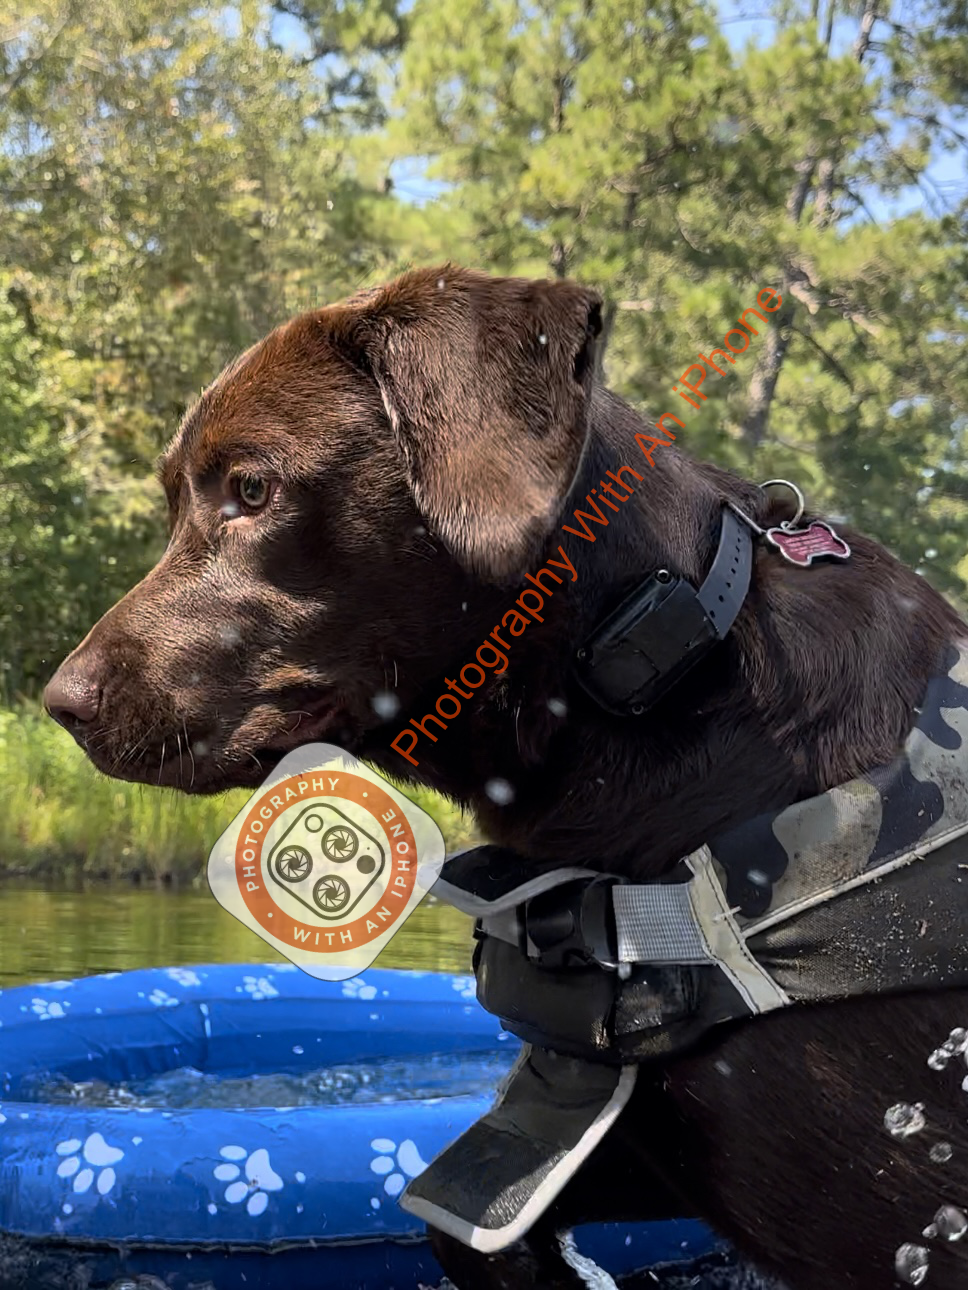
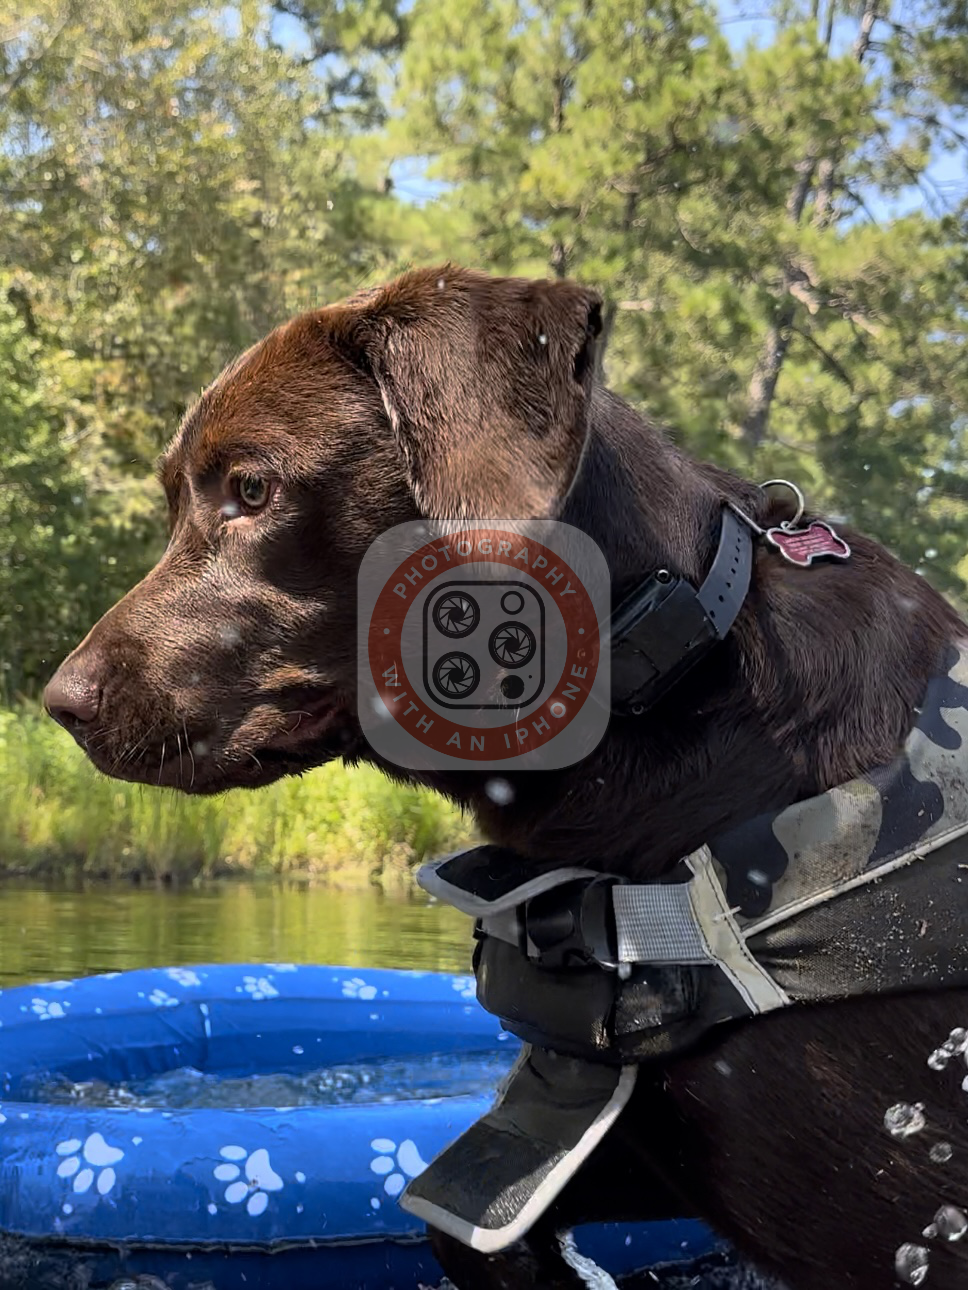
Update ALL images
Updated all images with new waterlogos except for 'Valdese Lakeside Park' page

Changed region(s): [[0.2169, 0.2791, 0.7438, 0.7752], [0.7748, 0.2171, 0.8058, 0.2481], [0.7438, 0.2481, 0.7748, 0.2791]]

diff --git a/people.html b/people.html
@@ -1,0 +1,137 @@
+<!doctype html>
+<html lang="en">
+	<head>
+		<meta charset="UTF-8">
+		<meta name="viewport" content="width=device-width, user-scalable=no, initial-scale=1.0, maximum-scale=1.0, minimum-scale=1.0">
+		<meta http-equiv="X-UA-Compatible" content="ie=edge">
+		<link rel="shortcut icon" type="image/png" href="assets/images/iphone-logo(2).png"/>
+		<title>Random People | Photography With An iPhone</title>
+		<meta name="description" content="Photography With An iPhone">
+		<meta name="keywords" content="photography, iphone, animals, nature, plants, structures, photography of nature, photography of animals, photography of plants, photography of structures, western north carolina, foothills-nc">
+		<link rel="stylesheet" href="css/styles.css">
+		<link rel="stylesheet" href="css/default.css">
+		<link rel="stylesheet" href="css/responsive.css">
+		<link rel="preconnect" href="https://fonts.googleapis.com">
+		<link rel="preconnect" href="https://fonts.gstatic.com" crossorigin>
+		<link href="https://fonts.googleapis.com/css2?family=Anton&family=Black+Ops+One&display=swap" rel="stylesheet">
+	</head>
+	<body>
+		<div class="container">
+			<nav>
+				<ul class="navbar-nav">
+					<li class="nav-link contact">
+						<a href="gallery.html">Gallery</a>
+					</li>
+					<li class="nav-link">
+						<a href="index.html"><img src="assets/images/iphone-logo.webp"></a>
+					</li>
+					<li class="nav-link contact">
+						<a href="contact.html">Contact</a>
+					</li>
+				</ul>
+			</nav>
+
+			<header>
+				<img src="assets/images/IMG_8947.jpg" class="desktop">
+				<img src="assets/images/IMG_8947(3).JPG" class="mobile">
+			</header>
+			<main class="welcome">
+				<ul class="breadcrumb">
+					<li><a href="index.html" class="not-active">...</a></li>
+					<li><a href="gallery.html" class="not-active">Gallery</a></li>
+					<li><a href="people.html" class="active">People</a></li>
+				</ul>
+				<div class="welcome">
+					<h1>People</h1>
+				</div>
+
+				<div class="gallery">
+					<div class="before-after">
+						<div class="random-person-card">
+							<section class="before">
+								<div class="before-wrapper">
+									<img src="assets/images/people/IMG_1961.png" class="photo" alt="a random person">
+								</div>
+<!--								<h3>Random Person</h3>-->
+							</section>
+						</div>
+
+						<div class="random-person-card">
+							<section class="before">
+								<div class="before-wrapper">
+									<img src="assets/images/people/IMG_2864.png" class="photo" alt="a random person">
+								</div>
+								<!--								<h3>Random Person</h3>-->
+							</section>
+						</div>
+					</div>
+				</div>
+			</main>
+
+			<footer class="bg-footer">
+				<section class="footer-top">
+					<div class="footer-col">
+						<div class="contact-info">
+							<ul>
+								<!--								<li><img src="./assets/images/map-pin.svg" alt="location" class="icons">630 W 21st St Newton, NC <br>-->
+								<!--									<span class="inside">(Inside Reaves Chiropractic)</span></li>-->
+<!--								<li><img src="./assets/images/mobile.svg" alt="mobile" class="icons phone email"><a-->
+<!--									href="tel:(+1) 828-455-3152"	class="tel">(+1) 828-781-4674</a>-->
+<!--&lt;!&ndash;									<br><span class="inside">(Call/text)</span>&ndash;&gt;-->
+<!--								</li>-->
+								<li><img src="./assets/images/mail.svg" alt="mail" class="icons"><a
+									href="mailto:theiphonephotography@icloud.com" class="email">theiphonephotography@icloud.com</a></li>
+							</ul>
+						</div>
+					</div>
+				</section>
+
+				<section class="footer-bottom">
+					<div class="footer-bottom-wrapper">
+						<div class="copyright">
+							<p>
+								<a href="https://developerofcode.com" target="_blank" class="developer"><span>Built by</span><img
+									src="./assets/images/DOC_logo_3_logo_only_transparent-BG.gif"
+									alt="Developer Of Code, LLC's company logo"><span class="dev">Developer Of Code, LLC</span></a></p>
+
+						</div>
+						<!--						<div class="footer-bottom-links">-->
+						<!--							<ul>-->
+						<!--								<li><a href="index.html">Home</a></li>-->
+						<!--								<li><a href="products.html">Products</a></li>-->
+						<!--								<li><a href="contact.html">Contact</a></li>-->
+						<!--								<li><a href="#">FAQ</a></li>-->
+						<!--							</ul>-->
+						<!--						</div>-->
+					</div>
+				</section>
+			</footer>
+		</div>
+
+		<script>
+			function currentDiv(n) {
+				showDivs(slideIndex = n);
+			}
+
+			function showDivs(n) {
+				var i;
+				var x = document.getElementsByClassName("mySlides");
+				var dots = document.getElementsByClassName("demo");
+				if (n > x.length) {slideIndex = 1}
+				if (n < 1) {slideIndex = x.length}
+				for (i = 0; i < x.length; i++) {
+					x[i].style.display = "none";
+				}
+				for (i = 0; i < dots.length; i++) {
+					dots[i].className = dots[i].className.replace(" w3-opacity-off", "");
+				}
+				x[slideIndex-1].style.display = "block";
+				dots[slideIndex-1].className += " w3-opacity-off";
+			}
+
+			document.addEventListener('contextmenu', event => {
+				event.preventDefault();
+			});
+		</script>
+	</body>
+</html>

diff --git a/gallery.html b/gallery.html
@@ -63,7 +63,7 @@
 								<section class="before">
 									<div class="before-wrapper">
 										<a
-											href="moon-and-sunset.html"><img src="assets/images/moon-and-sunset/IMG_2030.jpeg" class="photo" alt="moon/sunset link"></a>
+											href="moon-and-sunset.html"><img src="assets/images/moon-and-sunset/IMG_2030.png" class="photo" alt="moon/sunset link"></a>
 									</div>
 									<h3>Moon/Sunset</h3>
 								</section>
@@ -85,8 +85,18 @@
 							<div class="card">
 								<section class="before">
 									<div class="before-wrapper">
-										<a
-											href="random-objects.html"><img src="assets/images/random-objects/IMG_2085.jpeg" class="photo" alt="random objects link"></a>
+										<a href="people.html"><img src="assets/images/people/IMG_1729.png" class="photo" alt="random people link"></a>
+									</div>
+									<h3 class="random">People</h3>
+								</section>
+							</div>
+						</div>
+
+						<div class="card-container">
+							<div class="card">
+								<section class="before">
+									<div class="before-wrapper">
+										<a href="random-objects.html"><img src="assets/images/random-objects/IMG_2085.png" class="photo" alt="random objects link"></a>
 									</div>
 									<h3 class="random">Random Objects</h3>
 								</section>
@@ -97,19 +107,7 @@
 							<div class="card">
 								<section class="before">
 									<div class="before-wrapper">
-										<a
-											href="random-people.html"><img src="assets/images/random-people/IMG_1729.jpg" class="photo" alt="random people link"></a>
-									</div>
-									<h3 class="random">Random People</h3>
-								</section>
-							</div>
-						</div>
-
-						<div class="card-container">
-							<div class="card">
-								<section class="before">
-									<div class="before-wrapper">
-										<a href="structures.html"><img src="assets/images/structures/IMG_1039.jpeg" class="photo" alt="structures link"></a>
+										<a href="structures.html"><img src="assets/images/structures/IMG_1039.png" class="photo" alt="structures link"></a>
 									</div>
 									<h3>Structures</h3>
 								</section>

diff --git a/index.html b/index.html
@@ -51,8 +51,8 @@
 						<a href="animals.html"><img class="mySlides" src="assets/images/animals/oakley/IMG_9781(2).jpg"></a>
 						<a href="moon-and-sunset.html"><img class="mySlides" src="assets/images/moon-and-sunset/IMG_2030(3).jpeg"></a>
 						<a href="nature.html"><img class="mySlides" src="assets/images/nature/insects/IMG_0929(3).jpeg"></a>
-						<a href="random-people.html"><img class="mySlides" src="assets/images/random-objects/IMG_2085(3).jpeg"></a>
-						<a href="random-people.html"><img class="mySlides" src="assets/images/random-people/IMG_1729(2).jpg"></a>
+						<a href="random-objects.html"><img class="mySlides" src="assets/images/random-objects/IMG_2085(3).jpeg"></a>
+						<a href="people.html"><img class="mySlides" src="assets/images/people/IMG_1729(2).jpg"></a>
 						<a href="structures.html"><img class="mySlides" src="assets/images/structures/IMG_2033.jpeg"></a>
 
 

diff --git a/moon-and-sunset.html b/moon-and-sunset.html
@@ -52,7 +52,7 @@
 							<div class="card">
 								<section class="before">
 									<div class="before-wrapper">
-										<a href="#"><img src="assets/images/moon-and-sunset/IMG_1010.jpeg" class="photo" alt="image of the moon"></a>
+										<a href="#"><img src="assets/images/moon-and-sunset/IMG_1010.png" class="photo" alt="image of the moon"></a>
 									</div>
 									<h3>Moon</h3>
 								</section>
@@ -63,7 +63,7 @@
 							<div class="card">
 								<section class="before">
 									<div class="before-wrapper">
-										<a href="#"><img src="assets/images/moon-and-sunset/IMG_1871.jpeg" class="photo" alt="image of the sunset"></a>
+										<a href="#"><img src="assets/images/moon-and-sunset/IMG_1871.png" class="photo" alt="image of the sunset"></a>
 									</div>
 									<h3>Sunset</h3>
 								</section>

diff --git a/nature.html b/nature.html
@@ -52,8 +52,7 @@
 								<section class="before">
 									<!--					<h3>Before</h3>-->
 									<div class="before-wrapper">
-										<a
-											href="birds.html"><img src="assets/images/nature/birds/IMG_2126.png" class="photo" alt="birds link"></a>
+										<a href="birds.html"><img src="assets/images/nature/birds/IMG_2126.png" class="photo" alt="birds link"></a>
 									</div>
 									<h3>Birds</h3>
 								</section>

diff --git a/random-objects.html b/random-objects.html
@@ -50,7 +50,7 @@
 							<div class="card">
 								<section class="before">
 									<div class="before-wrapper">
-										<a href="#"><img src="assets/images/random-objects/IMG_2085(4).jpeg" class="photo" alt="random objects link"></a>
+										<a href="#"><img src="assets/images/random-objects/IMG_2085(4).png" class="photo" alt="random objects link"></a>
 									</div>
 									<h3>Bird feeder</h3>
 								</section>

diff --git a/structures.html b/structures.html
@@ -51,7 +51,7 @@
 							<section class="before">
 								<!--					<h3>Before</h3>-->
 								<div class="before-wrapper">
-									<a href="#"><img src="assets/images/structures/IMG_090E.jpeg" class="photo" alt="image of a lighthouse"></a>
+									<img src="assets/images/structures/IMG_090E.png" class="photo" alt="image of a lighthouse">
 								</div>
 								<h3>Cape Hatteras</h3>
 							</section>
